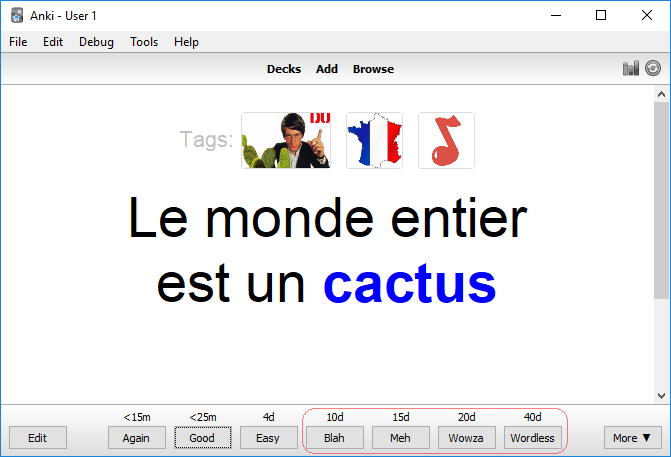
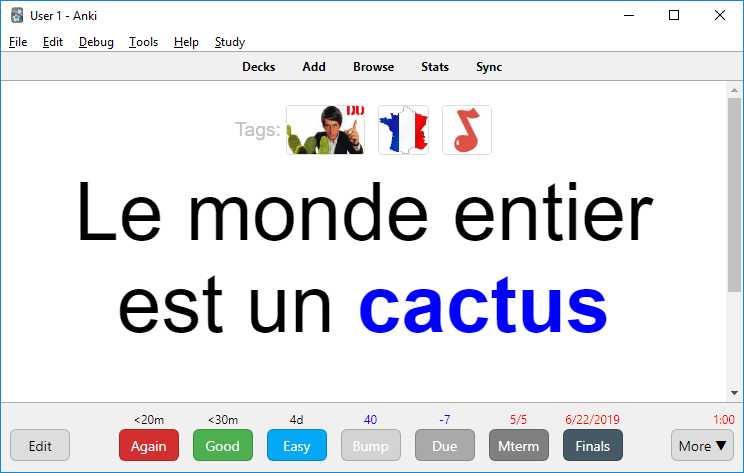
slight impv to gui op and hdl

diff --git a/src/rememorize_btn/main.py b/src/rememorize_btn/main.py
@@ -21,21 +21,25 @@ from .const import *
 rBtn=ReMemButtons()
 
 
-def answerButtons(sched, card, _old):
+
+#SCHEDULER
+def wrap_answerButtons(sched, card, _old):
     cnt=_old(sched, card)
     rBtn.setCount(cnt)
     if not rBtn.check(card):
         return cnt
+
+    extraBtn=rBtn.getExtraCount() #initialize ex cnt
     for i in range (2,5): #who is calling?
         try:
             f=sys._getframe(i)
         except ValueError: break
-        if f.f_code.co_name==ANS_BTN_TAG:
+        if f.f_code.co_name in BTN_CNT_BYPASS:
             return cnt
-    return rBtn.getExtraCount()
+    return extraBtn
 
 
-def answerButtonList(rev, _old):
+def wrap_answerButtonList(rev, _old):
     list=_old(rev)
     if not rBtn.check():
         return list
@@ -46,14 +50,13 @@ def answerButtonList(rev, _old):
     return list
 
 
-def buttonTime(rev, ease, _old):
+def wrap_buttonTime(rev, ease, _old):
     if not rBtn.check(ease=ease):
         return _old(rev, ease)
-    days=rBtn.getDays(ease) or "errore"
-    return '<span class=nobold>%sd</span><br>'%days 
+    return rBtn.getButtonTime(ease)
 
 
-def answerCard(sched, card, ease, _old):
+def wrap_answerCard(sched, card, ease, _old):
     if not rBtn.check(ease=ease):
         return _old(sched, card, ease)
     try:
@@ -63,7 +66,7 @@ def answerCard(sched, card, ease, _old):
 
 
 #For Anki20
-def keyHandler(rev, evt, _old):
+def wrap_keyHandler(rev, evt, _old): #called 1st
     key=unicode(evt.text())
     for i in rBtn.getKeys():
         if key==str(i):
@@ -72,7 +75,7 @@ def keyHandler(rev, evt, _old):
 
 
 #For Anki21
-def shortcutKeys(rev, _old):
+def wrap_shortcutKeys(rev, _old):
     arr=_old(rev)
     for i in rBtn.getKeys():
         t=(str(i),lambda i=i: rev._answerCard(i))
@@ -81,17 +84,17 @@ def shortcutKeys(rev, _old):
 
 
 
-Reviewer._answerButtonList = wrap(Reviewer._answerButtonList, answerButtonList, 'around')
-Reviewer._buttonTime = wrap(Reviewer._buttonTime, buttonTime, 'around')
-Scheduler.answerCard = wrap(Scheduler.answerCard, answerCard, 'around')
-Scheduler.answerButtons = wrap(Scheduler.answerButtons, answerButtons, 'around')
+Reviewer._answerButtonList = wrap(Reviewer._answerButtonList, wrap_answerButtonList, 'around')
+Reviewer._buttonTime = wrap(Reviewer._buttonTime, wrap_buttonTime, 'around')
+Scheduler.answerCard = wrap(Scheduler.answerCard, wrap_answerCard, 'around')
+Scheduler.answerButtons = wrap(Scheduler.answerButtons, wrap_answerButtons, 'around')
 
 
 if ANKI21:
     from anki.schedv2 import Scheduler as SchedulerV2
-    SchedulerV2.answerCard = wrap(SchedulerV2.answerCard, answerCard, 'around')
-    SchedulerV2.answerButtons = wrap(SchedulerV2.answerButtons, answerButtons, 'around')
-    Reviewer._shortcutKeys = wrap(Reviewer._shortcutKeys, shortcutKeys, 'around')
+    SchedulerV2.answerCard = wrap(SchedulerV2.answerCard, wrap_answerCard, 'around')
+    SchedulerV2.answerButtons = wrap(SchedulerV2.answerButtons, wrap_answerButtons, 'around')
+    Reviewer._shortcutKeys = wrap(Reviewer._shortcutKeys, wrap_shortcutKeys, 'around')
 else:
-    Reviewer._keyHandler = wrap(Reviewer._keyHandler, keyHandler, 'around')
+    Reviewer._keyHandler = wrap(Reviewer._keyHandler, wrap_keyHandler, 'around')
 

diff --git a/src/rememorize_btn/rememorize_btn.py b/src/rememorize_btn/rememorize_btn.py
@@ -29,6 +29,17 @@ class ReMemButtons:
         self.remem_loaded=True
 
 
+    def getButtonTime(self, ease):
+        e=ease-self.count #start from 1
+        p=self.conf.get("button_text_prefix","R:")
+        if self.conf.get("show_btn_time_in_days",False):
+            s=self.getDays(ease) or "errore"
+            s+='d'
+        else:
+            s=self.btns[e-1][1] #zero based
+        return '<span class="nobold rem_time%d">%s%s</span><br>'%(e,p,s)
+
+
     def getDays(self, ease):
         e=ease-self.count-1
         str=self.btns[e][1]

diff --git a/src/rememorize_btn/const.py b/src/rememorize_btn/const.py
@@ -8,7 +8,7 @@
 from anki import version
 ANKI21 = version.startswith("2.1.")
 
-ANS_BTN_TAG='_answerButtonList' if ANKI21 else 'answerButtonList'
+BTN_CNT_BYPASS=('_defaultEase','_answerButtonList')
 
 ADDON_NAME='rememorize_btn'
 

diff --git a/src/rememorize_btn/config.md b/src/rememorize_btn/config.md
@@ -12,7 +12,7 @@ Any fuzz, defuzz, load balancing, or freeweekend stuff will be handled by each r
 
 
 ## young_card_ivl:
-0 to disable, 31 days max.  
+0 to disable.  
 Don't show buttons for young cards less than this number.  
 As the reviews are logged as reschedules, you should not abuse this feature.  
 Setting it to a small value is acceptable.  
@@ -24,3 +24,14 @@ Don't show buttons in filter decks (custom study).
 ## show_tooltip:
 true or false  
 Shows a friendly message after reschedule.  
+
+## show_btn_time_in_days:
+Decodes 1/25/2019 into days and display them as "25d" in button's next due.
+
+## button_text_prefix
+Friendly reminder text, but you should really use CSS to style and colorize these buttons. Look for a good addon that css styling.  
+CSS class: <b>rem_timeN</b>, where N is the number of the extra button, 12345...  
+e.g.  
+rem_time1 {color:red;}  
+rem_time1 ~ button{background-color:green;}  
+
